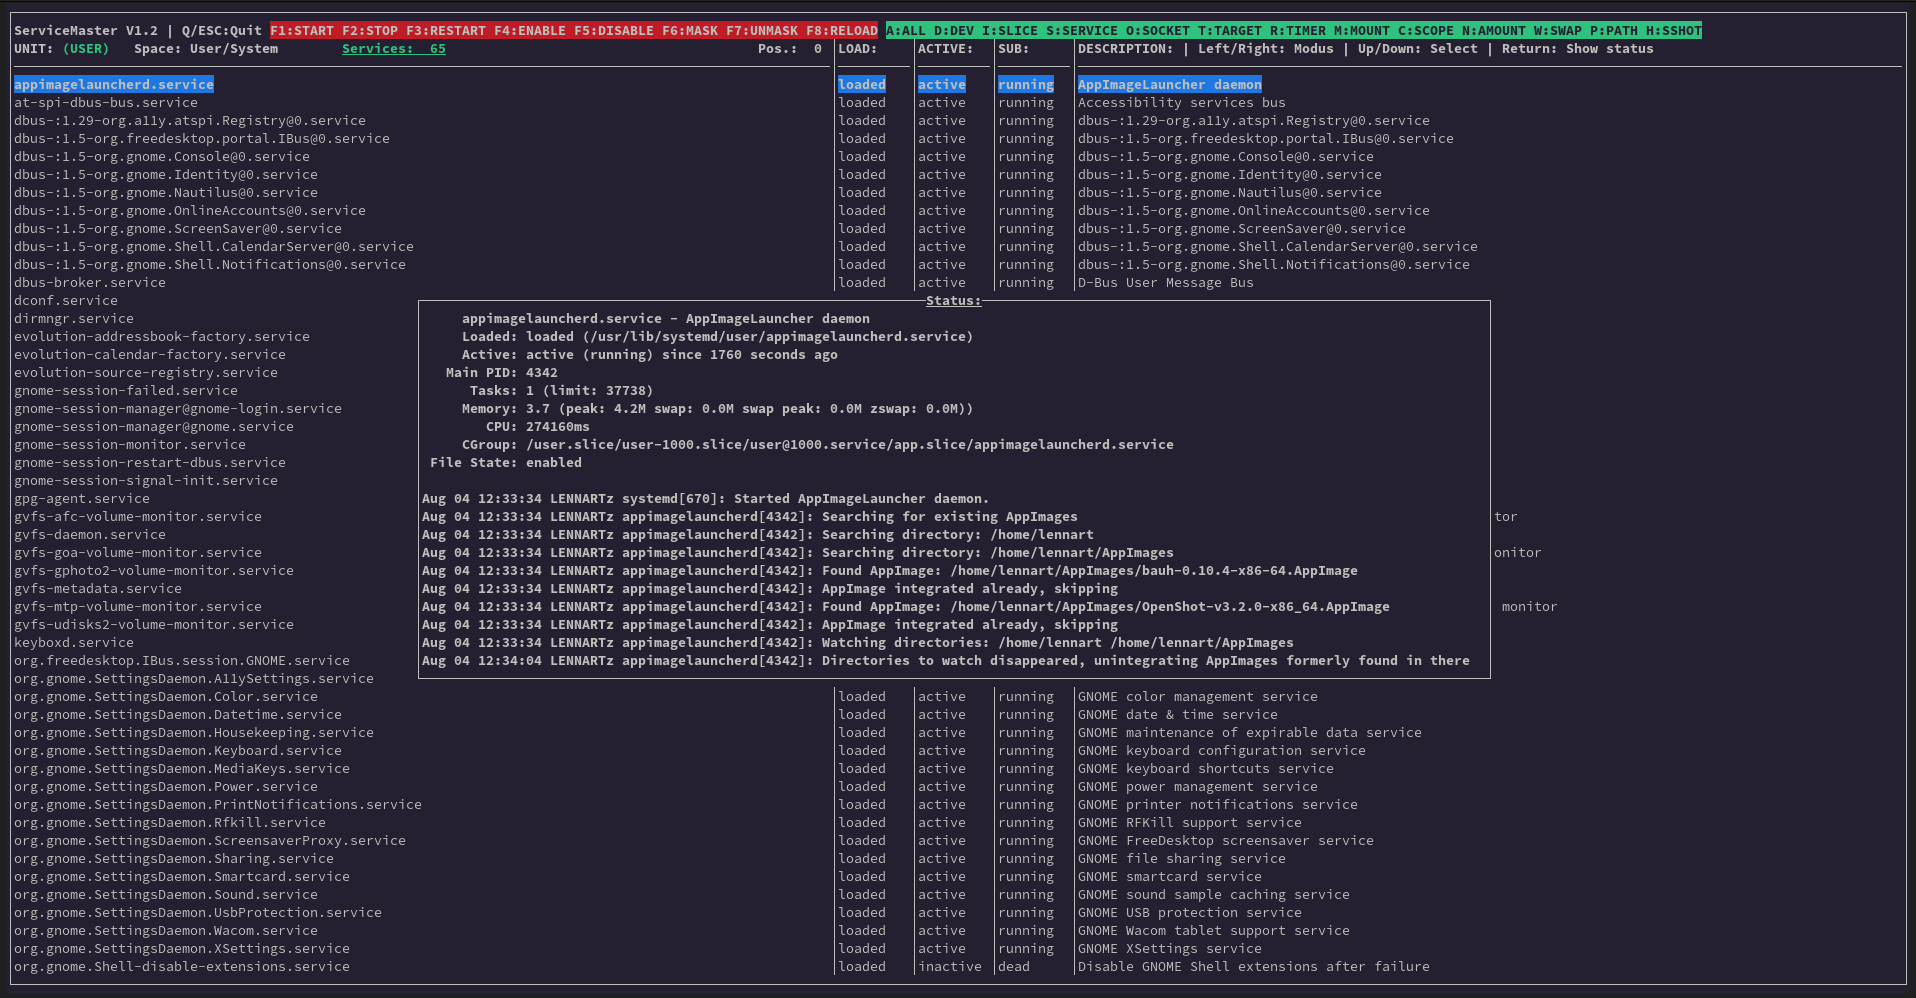
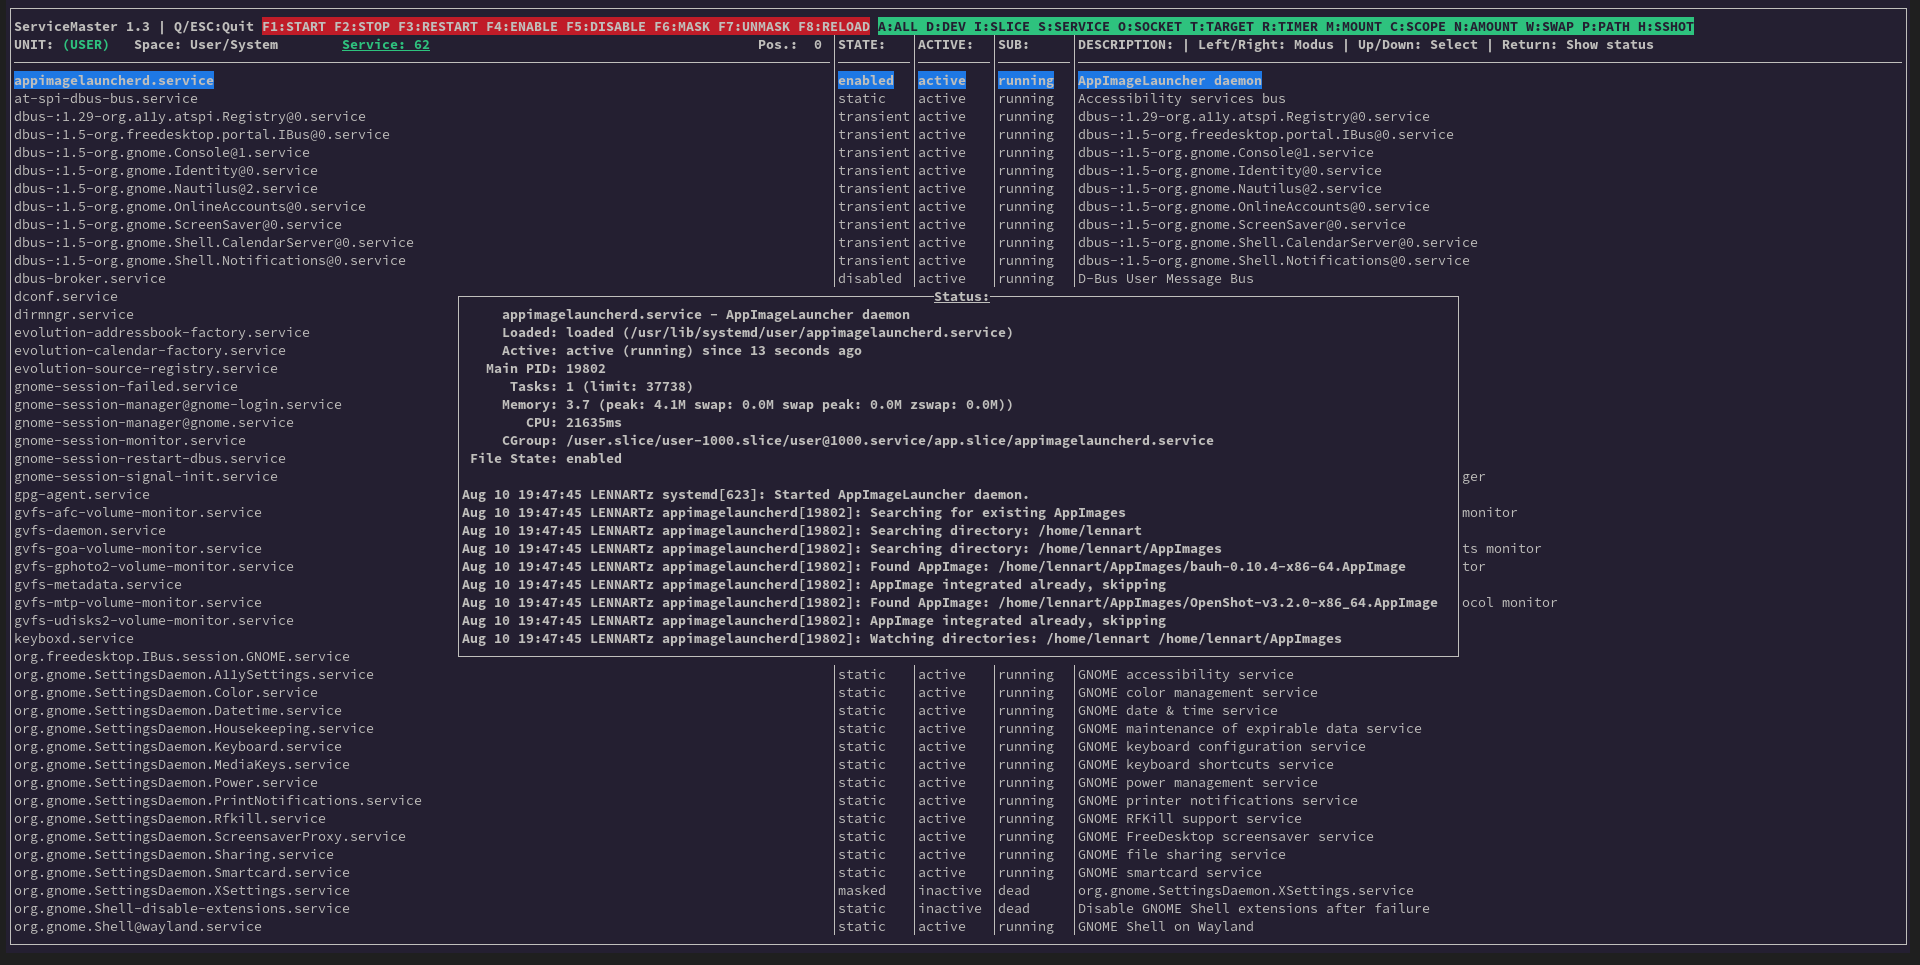
Update to version 1.3: - DBus event loop: Reacts immediately to external changes to units

diff --git a/main.c b/main.c
@@ -13,6 +13,7 @@
 #include <sys/types.h>
 #include <sys/queue.h>
 
+#define VERSION "1.3"
 #define FUNCTIONS     "F1:START F2:STOP F3:RESTART F4:ENABLE F5:DISABLE F6:MASK F7:UNMASK F8:RELOAD"
 #define SERVICE_TYPES "A:ALL D:DEV I:SLICE S:SERVICE O:SOCKET T:TARGET R:TIMER M:MOUNT C:SCOPE N:AMOUNT W:SWAP P:PATH H:SSHOT"
 
@@ -56,7 +57,7 @@ const char *introduction = "Press Space to switch between system and user system
                      " to select units.\nPress the F keys to manipulate the units and ESC or Q to exit the program.\n"
                      "I am not responsible for any damage caused by this program.\nIf you don't exactly know what you are doing here, please don't use it.\n"
                      "--> PRESS ANY KEY TO CONTINUE <--\n\nHave fun !\n\nLennart Martens 2024\nLicense: MIT\nmonkeynator78@gmail.com\n"
-                     "https://github.com/lennart1978/servicemaster\nVersion: 1.2";
+                     "https://github.com/lennart1978/servicemaster\nVersion: "VERSION;
 
 const char *intro_title = "A quick introduction to ServiceMaster:";
 
@@ -194,6 +195,12 @@ static inline Service * service_nth(int n) {
     return TAILQ_FIRST(list);
 }
 
+/**
+ * Finds the service with the specified y-position in the service list.
+ *
+ * @param ypos The y-position of the service to find.
+ * @return The service with the specified y-position, or NULL if not found.
+ */
 static inline Service * service_ypos(int ypos) {
     Service *svc;
     struct service_list *list = NULL;
@@ -237,6 +244,14 @@ static inline void service_insert(Service *svc, bool is_system) {
     TAILQ_INSERT_TAIL(list, svc, e);
 }
 
+/**
+ * Removes all services from the service list.
+ *
+ * This function iterates through the service list and removes each service,
+ * freeing the associated resources. It is used to clear the service list
+ * when the application is shutting down or when the service list needs to
+ * be reset.
+ */
 static inline void services_empty(void)
 {
     struct service_list *list = NULL;
@@ -1010,6 +1025,18 @@ bool is_enableable_unit_type(const char *unit) {
 
 #pragma GCC diagnostic push
 #pragma GCC diagnostic ignored "-Wunused-parameter"
+
+/**
+ * Handles the daemon reload callback from the D-Bus message.
+ * This function is called when the systemd daemon has been reloaded.
+ * It checks the reload status, and if successful, it retrieves all the
+ * systemd services and updates the screen accordingly.
+ *
+ * @param reply The D-Bus message containing the reload status.
+ * @param data The user data passed to the callback, which is a pointer to the Service struct.
+ * @param err The D-Bus error object, if any.
+ * @return 0 on success, a negative error code on failure.
+ */
 int daemon_reloaded(sd_bus_message *reply, void *data, sd_bus_error *err)
 {
     int  rc, reload_started;
@@ -1050,6 +1077,17 @@ fin:
     return 0;
 }
 
+/**
+ * Updates a specific property of a service based on the received D-Bus message.
+ *
+ * This function is called for each dictionary entry in the D-Bus message. It
+ * checks if the key is a property that needs to be updated, and if so, it
+ * updates the corresponding field in the Service struct.
+ *
+ * @param svc The Service struct to be updated.
+ * @param reply The D-Bus message containing the service property updates.
+ * @return 1 if a property was updated, 0 otherwise.
+ */
 static int update_service_property(Service *svc, sd_bus_message *reply)
 {
     /* Format of message at this point is: '{sv}' */
@@ -1089,6 +1127,19 @@ static int update_service_property(Service *svc, sd_bus_message *reply)
     return 0;
 }
 
+/**
+ * Callback function that handles changes to a systemd service.
+ *
+ * This function is called when a change is detected in a systemd service. It reads the
+ * updated properties from the D-Bus message and updates the corresponding fields in the
+ * Service struct. If any properties have changed, it redraws the screen to reflect the
+ * updated service status.
+ *
+ * @param reply The D-Bus message containing the updated service properties.
+ * @param data A pointer to the Service struct to be updated.
+ * @param err An error object, if an error occurred.
+ * @return 0 on success, or a negative error code on failure.
+ */
 int changed_unit(sd_bus_message *reply, void *data, sd_bus_error *err)
 {
     Service *svc = (Service *)data;
@@ -1411,7 +1462,7 @@ void print_services()
 void print_text_and_lines()
 {
     int x = XLOAD / 2 - 10;
-    char *headline = "ServiceMaster V1.2 | Q/ESC:Quit";
+    char *headline = "ServiceMaster "VERSION" | Q/ESC:Quit";
 
     char tmptype[16] = {0};
     int *total_types = NULL;
@@ -1499,6 +1550,16 @@ void wait_input()
     return;
 }
 
+/**
+ * Retrieves the unit file state for the given service.
+ *
+ * This function uses the systemd D-Bus API to fetch the current state of the
+ * unit file associated with the provided service. The state is stored in the
+ * `unit_file_state` field of the `Service` struct.
+ *
+ * @param svc The service to retrieve the unit file state for.
+ * @param is_system Indicates whether the service is a system service (true) or a user service (false).
+ */
 void get_unit_file_state(Service *svc, bool is_system)
 {
     sd_bus *bus = NULL;
@@ -1560,6 +1621,17 @@ void get_unit_file_state(Service *svc, bool is_system)
     clear();\
 }
 
+/**
+ * Performs a systemd operation (start, stop, restart, etc.) on a service.
+ * This macro checks if the operation is being performed on a system unit and the
+ * user is not root, in which case it displays a status message and breaks out
+ * of the operation. Otherwise, it retrieves the service at the current cursor
+ * position, calls the `start_operation()` function to perform the requested
+ * operation, and displays a status message if the operation fails.
+ *
+ * @param mode The systemd operation to perform (e.g. "start", "stop", "restart").
+ * @param txt A string describing the operation (e.g. "Start", "Stop", "Restart").
+ */
 #define SD_OPERATION(mode, txt) {\
     bool success = false;\
     if(is_system && !is_root()) {\
@@ -1572,6 +1644,20 @@ void get_unit_file_state(Service *svc, bool is_system)
         show_status_window("Command could not be executed on this unit.", txt":");\
 }
 
+/**
+ * Handles user input and performs various operations on systemd services.
+ * This function is responsible for:
+ * - Handling user input from the keyboard, including navigation, service operations, and mode changes
+ * - Updating the display based on the current state and user actions
+ * - Calling appropriate functions to perform service operations (start, stop, restart, etc.)
+ * - Reloading the service list when necessary
+ *
+ * @param s The event source that triggered the callback.
+ * @param fd The file descriptor associated with the event source.
+ * @param revents The events that occurred on the file descriptor.
+ * @param data Arbitrary user data passed to the callback.
+ * @return 0 to indicate the event was handled successfully.
+ */
 int key_pressed(sd_event_source *s, int fd, uint32_t revents, void *data)
 {
     int c;
@@ -1942,4 +2028,3 @@ int main()
     endwin();
     return 0;
 }
-// Bug reports, feature requests and suggestions for improvement are welcome: monkeynator78@gmail.com  Lennart

diff --git a/README.md b/README.md
@@ -10,6 +10,7 @@ ServiceMaster is a powerful terminal-based tool for managing systemd units on Li
 - Switch between system and user units
 - User-friendly ncurses interface with color-coded information
 - Keyboard shortcuts for quick navigation and control
+- DBus event loop: Reacts immediately to external changes to units
 
 ## Requirements
 
@@ -48,7 +49,7 @@ For bug reports, feature requests, or general inquiries:
 
 ## Version
 
-1.2
+1.3
 
 Build:
 ```bash
